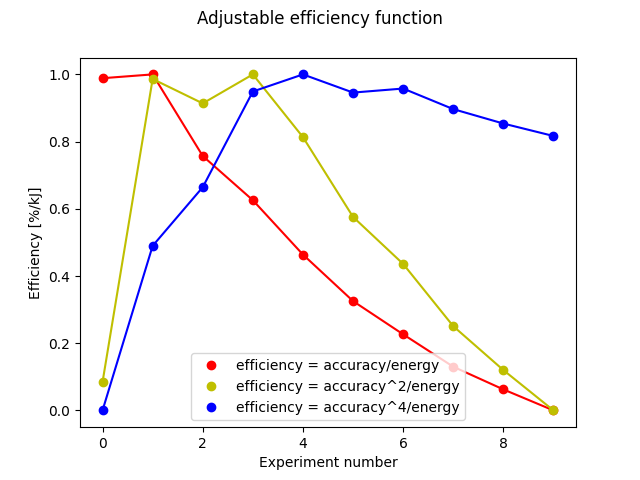
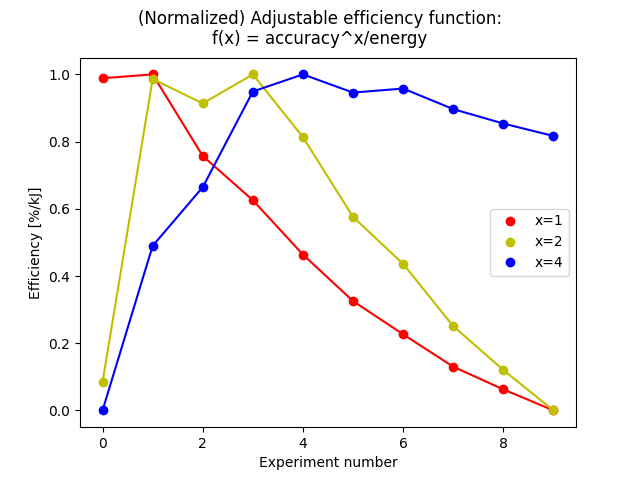
refined thesis figures

diff --git a/calculations.py b/calculations.py
@@ -190,13 +190,14 @@ def efficiency_test(keras_data_loads, pytorch_data):
 
     print(energy_sum, acc)
     x = np.linspace(0, energy_sum[-1], 11)
-    y = -208 + 24 * np.log(x)
+    y = -235.8 + 26.7 * np.log(x)
     print(x, y)
 
     plt.scatter(energy_sum[:-1], acc[:-1], color='r', label="Keras Varying Data Load Results")
     plt.scatter(energy_sum[-1], acc[-1], color='g', label="Pytorch Result")
-    plt.plot(x, y, label="Approximation f(x)= 24*ln(x)-208")
+    plt.plot(x, y, label="Approximation\nf(x) = 26,7 * ln(x) - 235,8")
     plt.legend()
+    plt.ylim((0, 100))
     plt.xlabel("Total Energy Consumption [kJ]")
     plt.ylabel("Accuracy [%]")
     plt.title("Energy Consumption paired with accuracy for each experiment")
@@ -216,7 +217,7 @@ def efficiency_test(keras_data_loads, pytorch_data):
     ax.scatter(energy[:-1], acc_2[:-1], color="r", label="Keras Varying Data Load Results")
     [ax.text(energy[i], acc_2[i], f"{(i+2)*10}%") for i in range(10)]
     ax.set_xlabel("Difference in Energy Consumption [kJ]")
-    ax.set_ylabel("Difference in Accuracy [%]")
+    ax.set_ylabel("Difference in Accuracy [percentile points]")
     fig.suptitle("Difference in energy consumption and accuracy\nfor each experiment to the prior experiment")
     ax.legend()
     ax.set_xlim((0, 20000))
@@ -253,13 +254,13 @@ def efficiency_test(keras_data_loads, pytorch_data):
     # plt.scatter(np.linspace(0, 10, 11), eff)
     ax.set_xlabel("Experiment number")
     ax.set_ylabel("Efficiency [%/kJ]")
-    ax.plot(eff, 'ro', label="efficiency = accuracy/energy")
+    ax.plot(eff, 'ro', label="x=1")
     ax.plot(eff, 'r')
-    ax.plot(eff_2, 'yo', label="efficiency = accuracy^2/energy")
+    ax.plot(eff_2, 'yo', label="x=2")
     ax.plot(eff_2, 'y')
-    ax.plot(eff_3, 'bo', label="efficiency = accuracy^4/energy")
+    ax.plot(eff_3, 'bo', label="x=4")
     ax.plot(eff_3, 'b')
-    fig.suptitle("Adjustable efficiency function")
+    fig.suptitle("(Normalized) Adjustable efficiency function:\nf(x) = accuracy^x/energy")
     ax.legend()
     # ax.plot(eff_4)
     plt.show()
